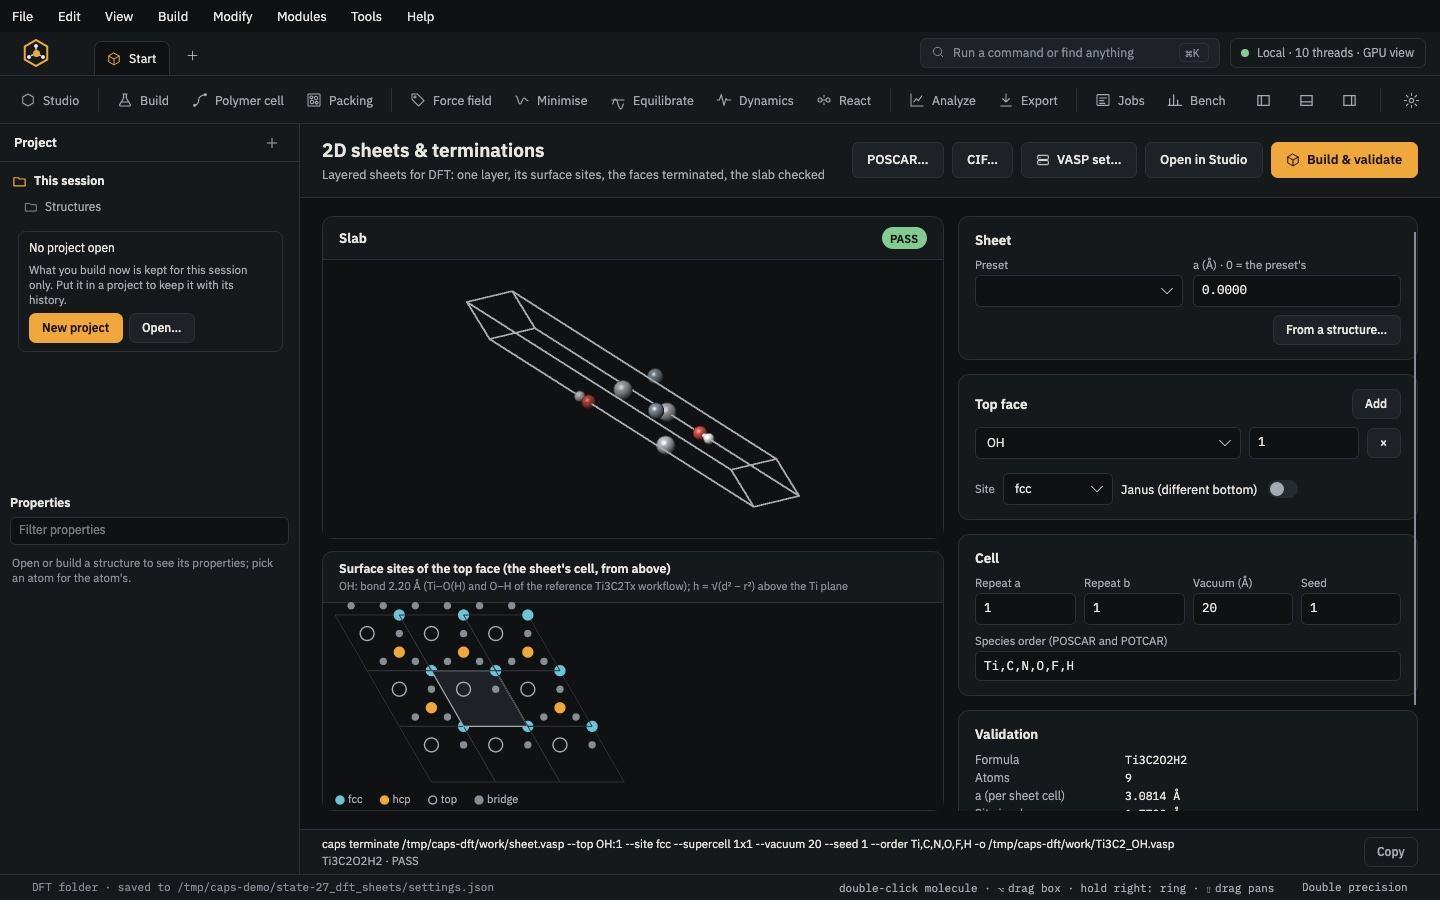
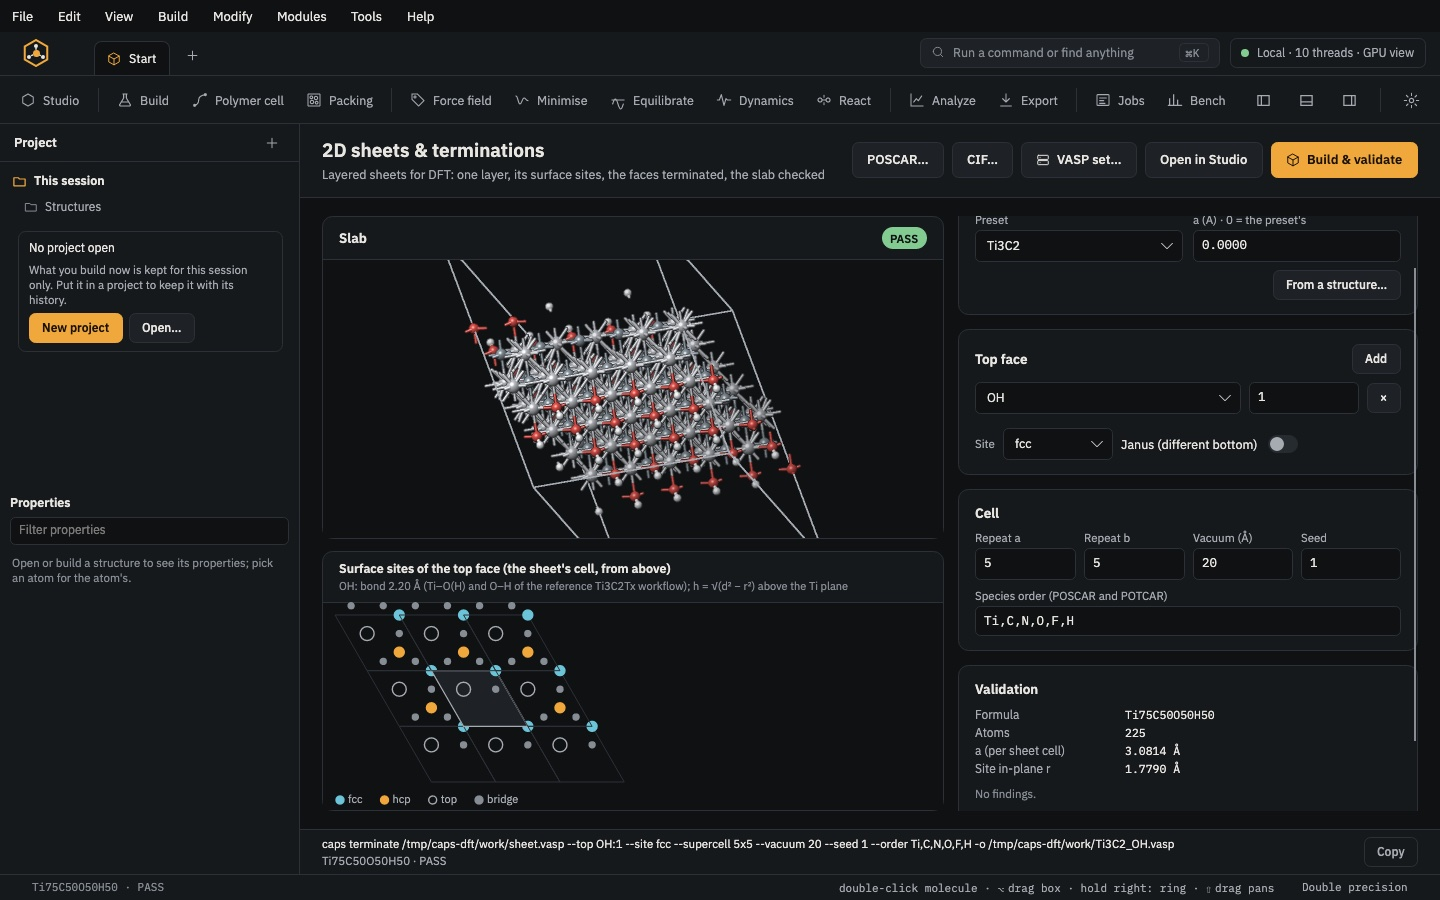
2D sheets page: the Preset box shows the active sheet, and the slab is drawn folded into its cell. The Preset ComboBox was bound while SheetPresets was still empty (the list was filled in OpenSheets, after the page existed), so the box dropped "Ti3C2" and stayed blank; the later SheetPreset notifica

diff --git a/docs/modules/dft.html b/docs/modules/dft.html
@@ -24,7 +24,7 @@
 <nav class="toc" aria-label="On this page"><h2>Modules</h2><h3 class="stage-h"><i class="dot st-start"></i>Get started</h3><a href="start.html">Start</a><a href="studio.html">Studio</a><h3 class="stage-h"><i class="dot st-build"></i>Build</h3><a href="molecule.html">Molecule builder</a><a href="polymer.html">Polymer builder</a><a href="polymer-cell.html">Polymer cell</a><a href="blend.html">Blend</a><a href="packing.html">Packing</a><a href="solvation.html">Solvation</a><a href="crystal.html">Crystal</a><a href="surface.html">Surface &amp; interface</a><a href="nanostructure.html">Nanostructure</a><h3 class="stage-h"><i class="dot st-prepare"></i>Prepare</h3><a href="force-field.html">Force field</a><a href="minimise.html">Minimise</a><a href="equilibrate.html">Equilibrate</a><h3 class="stage-h"><i class="dot st-run"></i>Run</h3><a href="dynamics.html">Dynamics</a><a href="coarse-grained.html">Coarse-grained</a><a href="dpd.html">DPD</a><a href="adsorption.html">Adsorption &amp; sorption</a><a href="dft.html" aria-current="page" class="on">DFT workbench</a><h3 class="stage-h"><i class="dot st-react"></i>React</h3><a href="react.html">React</a><h3 class="stage-h"><i class="dot st-out"></i>Analyse &amp; export</h3><a href="analyze.html">Analyze</a><a href="export.html">Export</a><a href="jobs.html">Jobs</a><a href="project.html">Project &amp; methods</a></nav>
 <main>
 <header class="mod-hero"><p class="eyebrow"><i class="dot st-run"></i>Run · module 19</p><h1>DFT workbench</h1><p class="lede">Prepare and follow surface DFT studies: build 2D sheets such as MXenes with terminated faces, place molecules on them, write checked VASP sets, run them on a cluster and collect binding energies, DOS and work functions.</p><p class="where"><b>Open it</b> <span class="ui">⌘K</span><i>›</i><span class="ui">Go to 2D sheets &amp; terminations</span></p><dl class="io"><div><dt>You start with</dt><dd>A sheet preset (for example Ti₃C₂) or a layered structure, and adsorbate SMILES.</dd></div><div><dt>You get</dt><dd>Validated slabs, adsorption sets, VASP input folders, job status and a results summary.</dd></div></dl></header>
-<figure class="shot"><button type="button" class="zoom" aria-label="Show full size"><img src="../manual/img/27_dft_sheets.jpg" alt="2D sheets &amp; terminations: a Ti₃C₂ sheet with OH on the fcc sites of its top face, the surface-site map and the validation (PASS), with the caps terminate line for the same step." width="1440" height="900" loading="eager" decoding="async"></button><figcaption><strong>2D sheets &amp; terminations</strong>: a Ti₃C₂ sheet with OH on the fcc sites of its top face, the surface-site map and the validation (PASS), with the <code>caps terminate</code> line for the same step.</figcaption></figure>
+<figure class="shot"><button type="button" class="zoom" aria-label="Show full size"><img src="../manual/img/27_dft_sheets.jpg" alt="2D sheets &amp; terminations: a 5 × 5 Ti₃C₂ sheet with OH on the fcc sites of both faces (Ti₃C₂(OH)₂, 225 atoms), the surface-site map and the validation (PASS), with the caps terminate line for the same step." width="1440" height="900" loading="eager" decoding="async"></button><figcaption><strong>2D sheets &amp; terminations</strong>: a 5 × 5 Ti₃C₂ sheet with OH on the fcc sites of both faces (Ti₃C₂(OH)₂, 225 atoms), the surface-site map and the validation (PASS), with the <code>caps terminate</code> line for the same step.</figcaption></figure>
 <h2 id="steps">Step by step</h2><ol class="stepper"><li><div><h3>Build the sheet</h3><p>⌘K → <strong>Go to 2D sheets &amp; terminations</strong>. Choose a preset or <span class="ui">From a structure…</span> (the layer formula, the elements to remove), terminate the top and bottom faces (sites fcc, hcp, top or bridge; Janus faces allowed), repeat and vacuum. <span class="ui">Build &amp; validate</span> checks the slab.</p></div></li><li><div><h3>Place the molecules</h3><p>⌘K → <strong>Go to DFT adsorption set</strong>: the slab (or a relaxed CONTCAR), the molecule as SMILES, its anchors (parallel, upright) and azimuths, with a force-field pre-screen. <span class="ui">Build set</span>.</p></div></li><li><div><h3>Write the VASP sets</h3><p>⌘K → <strong>Go to VASP set designer</strong>: the stages (cell, relax, static), dispersion, dipole correction, ENCUT and k-point density, the PAW folder. <span class="ui">Preview</span>, then <span class="ui">Write set</span>.</p></div></li><li><div><h3>Run and follow</h3><p>⌘K → <strong>Go to DFT runs</strong>: each case's stage, resubmit or reset a stage, derived sets such as AIMD.</p></div></li><li><div><h3>Collect the results</h3><p>⌘K → <strong>Go to DFT results</strong> → <span class="ui">Analyse</span>: binding energies, adsorption geometry, DOS, work function, charge-density difference and the summary CSV.</p></div></li></ol>
 <aside>Each DFT page has a <span class="ui">Copy</span> button with the <code>caps</code> command line for the same step.</aside>
 <h2 id="scripted">The same without the Studio</h2><p class="muted">Every Studio page calls the same core as the <code>caps</code> command and the <code>caps</code> Python package, so a step you clicked can be repeated in a script.</p>

diff --git a/studio/CapsStudio/ViewModels/MainViewModel.Dft.cs b/studio/CapsStudio/ViewModels/MainViewModel.Dft.cs
@@ -111,8 +111,25 @@ public partial class MainViewModel
     private static string F(double v, string f = "0.000") => double.IsFinite(v) ? v.ToString(f, DftInv) : "–";
 
     // ---------------------------------------------------------------- 2D sheets & terminations (module 75)
-    public ObservableCollection<string> SheetPresets { get; } = new();
-    public ObservableCollection<string> TermSpecies { get; } = new();
+    // The preset and termination lists are read the first time anything asks for them, the page's ComboBoxes included:
+    // a ComboBox bound while its list is still empty drops the selected preset (the box shows nothing although
+    // SheetPreset holds "Ti3C2"), and raising SheetPreset again later does not bring it back.
+    private readonly ObservableCollection<string> _sheetPresets = new(), _termSpecies = new();
+    public ObservableCollection<string> SheetPresets { get { LoadSheetLists(); return _sheetPresets; } }
+    public ObservableCollection<string> TermSpecies { get { LoadSheetLists(); return _termSpecies; } }
+    private bool _sheetListsRead;
+    private void LoadSheetLists()
+    {
+        if (_sheetListsRead || DftDataDir.Length == 0) return;
+        _sheetListsRead = true;
+        try
+        {
+            foreach (var s in JsonNode.Parse(File.ReadAllText(Path.Combine(DftDataDir, "sheets", "sheets.json")))!["sheets"]!.AsArray()) _sheetPresets.Add((string?)s!["name"] ?? "");
+            foreach (var t in JsonNode.Parse(File.ReadAllText(Path.Combine(DftDataDir, "sheets", "terminations.json")))!["terminations"]!.AsArray()) _termSpecies.Add((string?)t!["name"] ?? "");
+        }
+        catch (Exception e) { DftStatus = "DFT data: " + e.Message; }
+        if (!_sheetPresets.Contains(_sheetPreset) && _sheetPresets.Count > 0) _sheetPreset = _sheetPresets[0];
+    }
     public static readonly string[] SiteKinds = ["fcc", "hcp", "top", "bridge"];
     public ObservableCollection<TermRow> TopTerms { get; } = new() { new TermRow { Species = "O", Fraction = 1 } };
     public ObservableCollection<TermRow> BottomTerms { get; } = new() { new TermRow { Species = "O", Fraction = 1 } };
@@ -153,18 +170,8 @@ public partial class MainViewModel
 
     public void OpenSheets()
     {
-        if (SheetPresets.Count == 0 && DftDataDir.Length > 0)
-        {
-            try
-            {
-                foreach (var s in JsonNode.Parse(File.ReadAllText(Path.Combine(DftDataDir, "sheets", "sheets.json")))!["sheets"]!.AsArray()) SheetPresets.Add((string?)s!["name"] ?? "");
-                foreach (var t in JsonNode.Parse(File.ReadAllText(Path.Combine(DftDataDir, "sheets", "terminations.json")))!["terminations"]!.AsArray()) TermSpecies.Add((string?)t!["name"] ?? "");
-            }
-            catch (Exception e) { DftStatus = "DFT data: " + e.Message; }
-            if (!SheetPresets.Contains(_sheetPreset) && SheetPresets.Count > 0) _sheetPreset = SheetPresets[0];
-        }
+        LoadSheetLists();
         SetModule(75);
-        Avalonia.Threading.Dispatcher.UIThread.Post(() => Raise(nameof(SheetPreset)));
     }
     public void AddTerm(bool top) => (top ? TopTerms : BottomTerms).Add(new TermRow { Species = "OH", Fraction = 0.25m });
     public void RemoveTerm(TermRow r) { TopTerms.Remove(r); BottomTerms.Remove(r); }
@@ -203,7 +210,9 @@ public partial class MainViewModel
         SheetInfo.Add(new Row("Site in-plane r", F(DNum(r["r_site"]), "0.0000") + " Å"));
         foreach (var n in (sheet["notes"] as JsonArray ?? [])) SheetInfo.Add(new Row("Note", (string?)n ?? ""));
         await LoadSites();
-        try { SlabDoc?.Dispose(); SlabDoc = CapsDocument.Open(SlabPath); } catch (Exception e) { DftStatus = "preview: " + e.Message; }
+        // folded into the cell: the sheet is one molecule bonded through the cell faces, and shown whole it is drawn as a
+        // sheared band reaching out of its cell
+        try { SlabDoc?.Dispose(); SlabDoc = CapsDocument.Open(SlabPath); SlabDoc.SetWrap(true); } catch (Exception e) { DftStatus = "preview: " + e.Message; }
         DftStatus = $"{(string?)r["formula"]} · {SheetValidation}";
         DftCli = (string?)r["command"] ?? DftCli;
         DftChanged?.Invoke();

diff --git a/studio/CapsStudio/Screenshot.cs b/studio/CapsStudio/Screenshot.cs
@@ -38,8 +38,10 @@ internal static class Screenshot
             Thread.Sleep(30);
         }
         // Extra args (Field: ff=ID charges=N field=1 fieldpick=N fieldset=TYPE): pick=0,1,2  colour=3  style=4  module=0|1|2|3  grow=1  relax=1  mdsteps=N ensemble=0|1|2  md=1  eqprotocol=0|1|2 eqscale=X eq=1  tab=0..4  view=0|1  wrap=1
+        (int Na, int Nb)? sheetCell = null;   // sheetcell=NAxNB (before dft=): the supercell of the terminated slab
         foreach (var kv in args.Skip(3).Select(a => a.Split('=', 2)).Where(p => p.Length == 2))
         {
+            if (kv[0] == "sheetcell") { var n = kv[1].Split('x').Select(int.Parse).ToArray(); sheetCell = (n[0], n.Length > 1 ? n[1] : n[0]); }
             if (kv[0] == "pick") w.PickForTest(kv[1].Split(',').Select(int.Parse).ToArray());
             // layers: layer=ROW:eye|lock|select|expand (ROW an index into the list)
             if (kv[0] == "layer")
@@ -86,8 +88,10 @@ internal static class Screenshot
                 vm.OpenSheets();
                 vm.TopTerms.Clear();
                 vm.TopTerms.Add(new ViewModels.TermRow { Species = "OH", Fraction = 1 });
+                if (sheetCell is { } sc) { vm.SheetNa = sc.Na; vm.SheetNb = sc.Nb; }
                 void Wait(Task t) { while (!t.IsCompleted) { Avalonia.Threading.Dispatcher.UIThread.RunJobs(); Thread.Sleep(10); } }
                 Wait(vm.BuildSlab());
+                vm.Status = vm.DftStatus;   // the slab and its check in the status bar, not where the DFT folder setting was saved
                 if (kv[1] == "ads") { vm.OpenAdsorbDft(); vm.AdsSlab = vm.SlabPath; Wait(vm.BuildAdsorptionSet()); }
                 if (kv[1] == "job") { vm.OpenDftJob(); vm.JobStructure = vm.SlabPath; Wait(vm.PreviewJob()); }
             }

diff --git a/studio/CapsStudio/SelfTest.cs b/studio/CapsStudio/SelfTest.cs
@@ -1,4 +1,7 @@
 using System.Collections.Generic;
+using Avalonia;
+using Avalonia.Headless;
+using Avalonia.VisualTree;
 using CapsStudio.Interop;
 using CapsStudio.ViewModels;
 
@@ -5265,6 +5268,19 @@ internal static class SelfTest
         }
         vm.CloseAllStructures();
 
+        // last, as it starts the headless platform: the 2D sheets page in a real window shows the active preset after
+        // OpenSheets (a ComboBox bound to a list still empty dropped it, and the page showed an empty Preset box)
+        {
+            AppBuilder.Configure<App>().UseSkia().UseHeadless(new AvaloniaHeadlessPlatformOptions { UseHeadlessDrawing = false }).WithCapsFonts().SetupWithoutStarting();
+            var w = new Views.MainWindow { Width = 1440, Height = 900 };
+            w.Show();
+            w.ViewModel.OpenSheets();
+            for (var i = 0; i < 20; i++) { Avalonia.Threading.Dispatcher.UIThread.RunJobs(); AvaloniaHeadlessPlatform.ForceRenderTimerTick(); Thread.Sleep(15); }
+            var box = w.GetVisualDescendants().OfType<Avalonia.Controls.ComboBox>().FirstOrDefault(c => ReferenceEquals(c.ItemsSource, w.ViewModel.SheetPresets));
+            Check(box != null && box.IsEffectivelyVisible && w.ViewModel.SheetPreset.Length > 0 && Equals(box.SelectedItem, w.ViewModel.SheetPreset),
+                  $"2D sheets page shows the preset: box '{box?.SelectedItem}' · active '{w.ViewModel.SheetPreset}' · {w.ViewModel.SheetPresets.Count} presets");
+            w.Close();
+        }
         Console.WriteLine(fails == 0 ? "all checks passed" : $"{fails} check(s) failed");
         return fails == 0 ? 0 : 1;
     }
